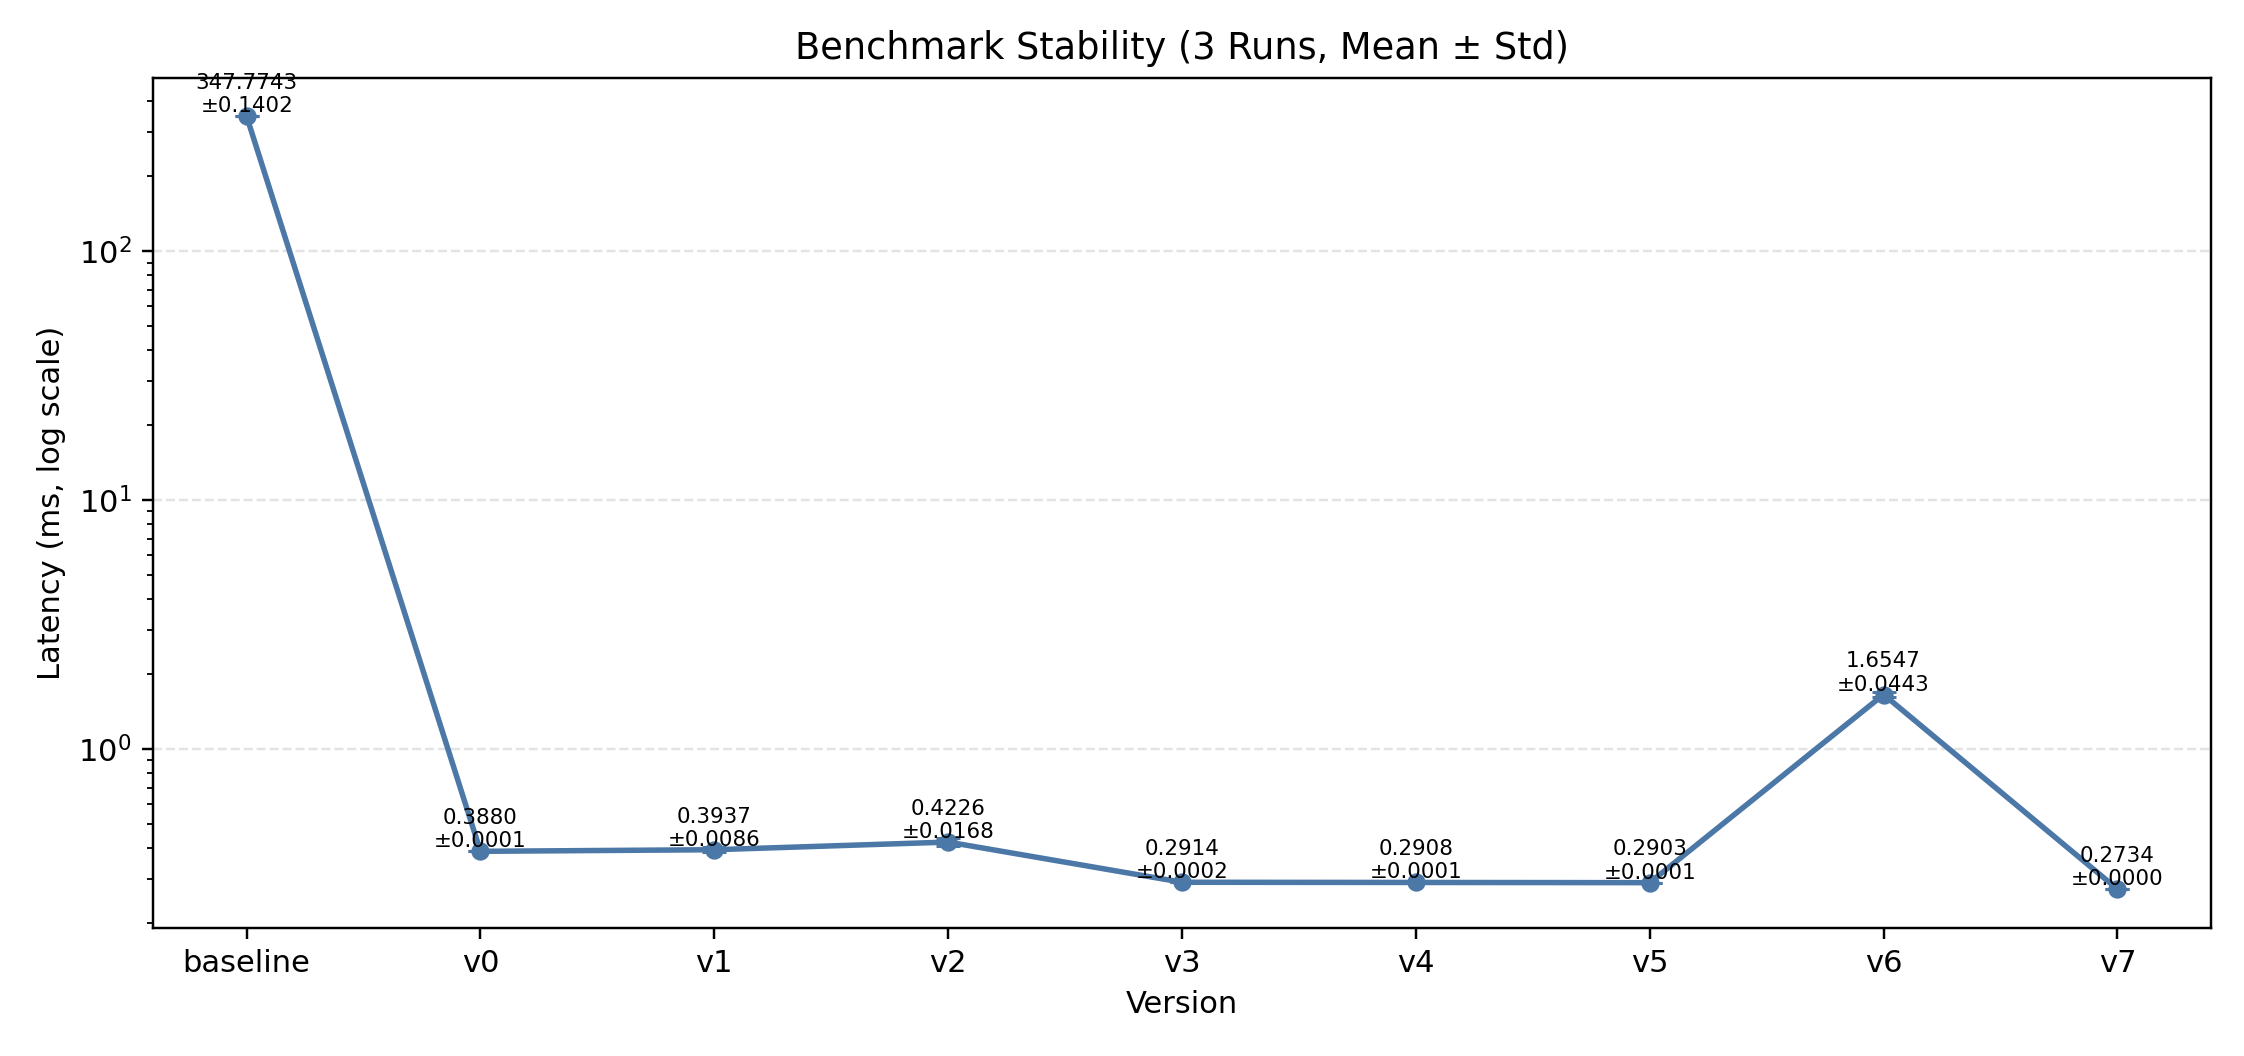
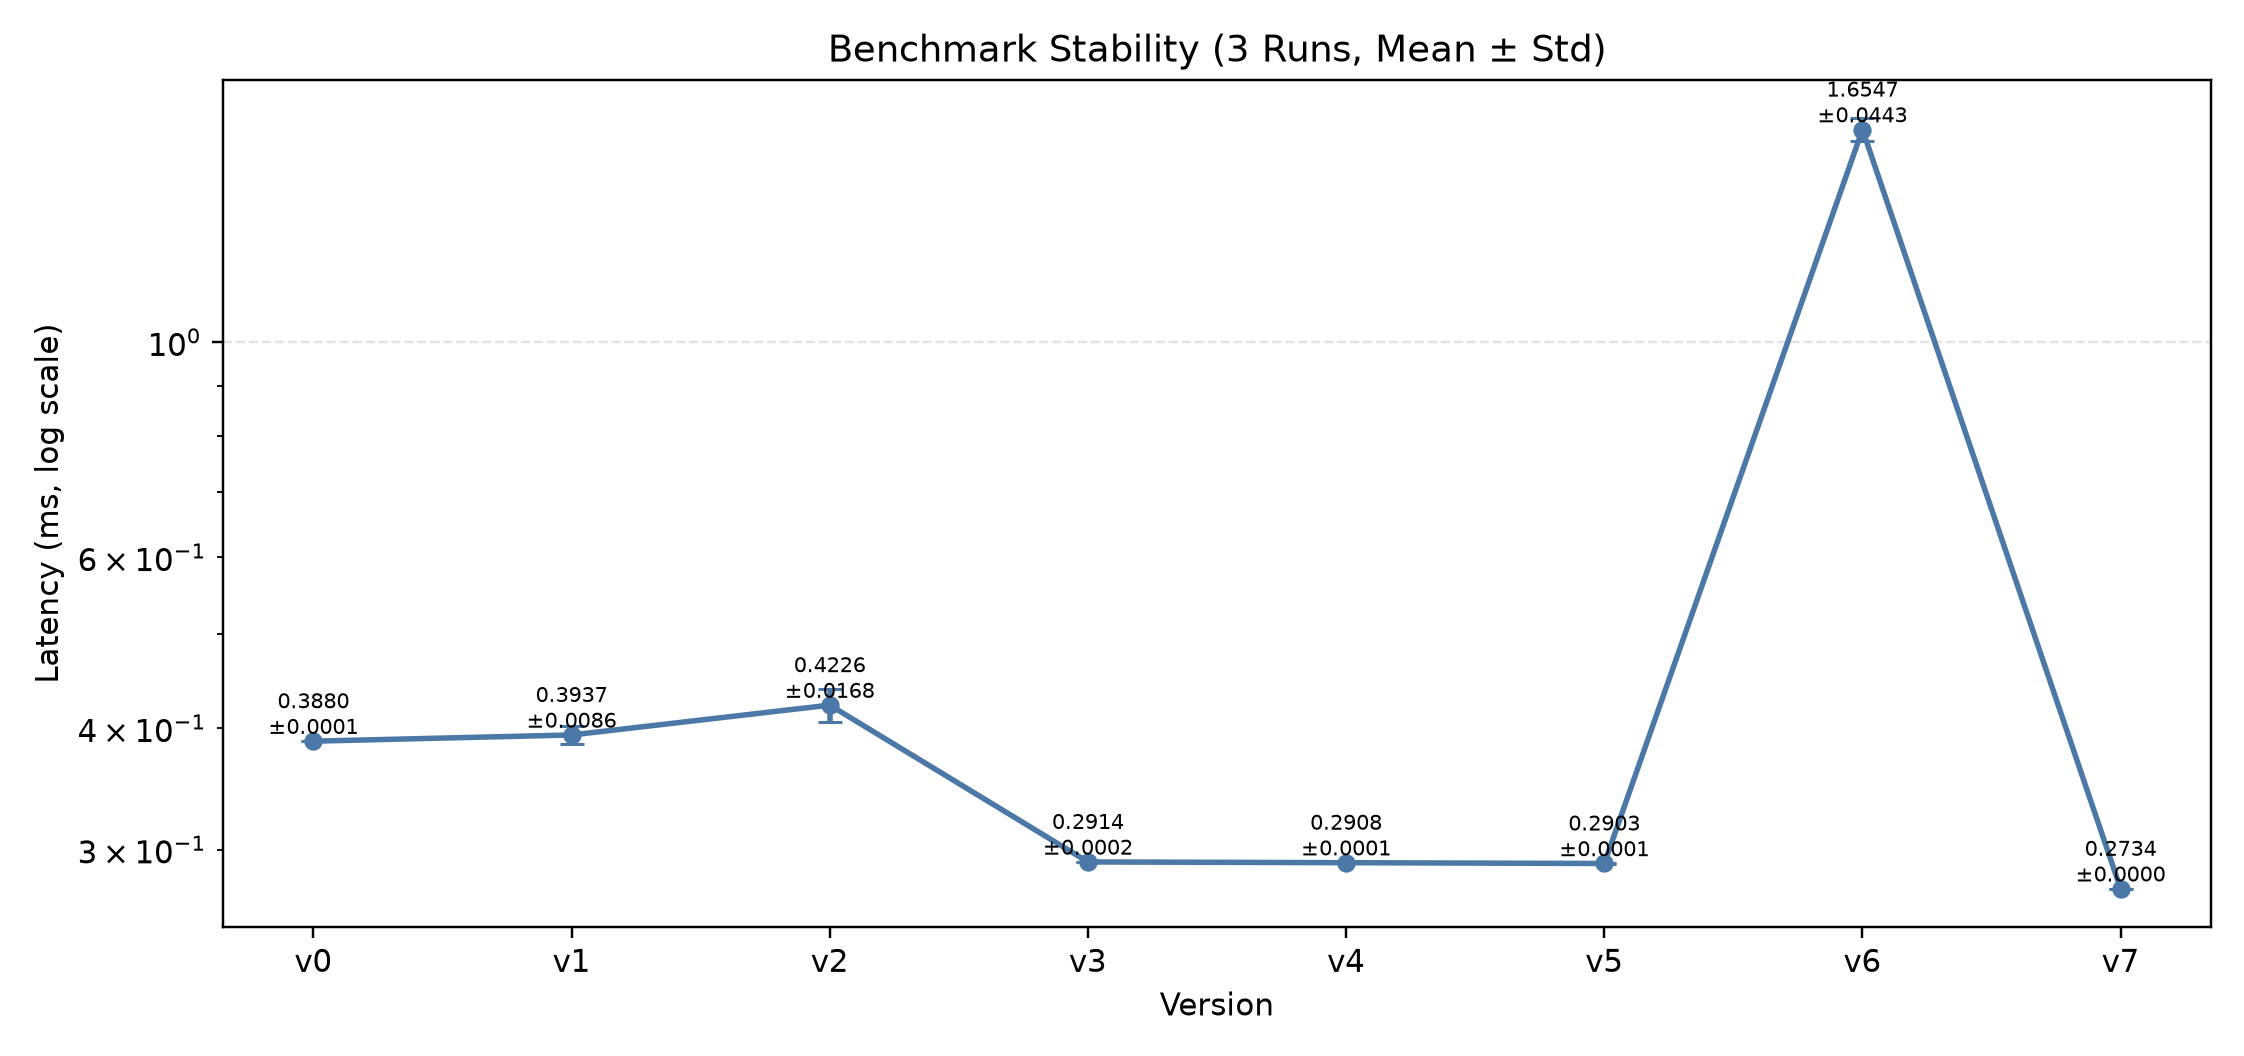
EXP-K01: 4090 重基准, reduce v6/v7 排序反转反超 cuBLAS 25%, roofline 迁移记录(NCU 容器无权限如实标注)

diff --git a/records/EXP-K01_4090_rebench.md b/records/EXP-K01_4090_rebench.md
@@ -1,0 +1,81 @@
+# EXP-K01 · 四 kernel 4090 重基准:roofline 迁移(4070 Laptop → 4090)
+
+## 0. 元信息
+
+| 字段 | 值 |
+|---|---|
+| 日期 | 2026-08-23 |
+| 环境 | RTX 4090(桌面,~1008GB/s GDDR6X)· CUDA 13.2 · driver 610.57.04;原基线 = RTX 4070 Laptop(git HEAD 内 CSV) |
+| 状态 | 完成(NCU 部分受阻,见 §7) |
+| 关联清单项 | 阶段一"4 个 kernel 在 4090 重新 benchmark"+"(NVIDIA线)细节重过"(部分) |
+
+## 1. 目的与假设
+
+简历数字换桌面卡;记录 roofline 位置迁移。可证伪假设:各 kernel 相对
+cuBLAS/baseline 的**版本间排序在 4090 上可能改变**(带宽/算力/L2 比例不同)。
+
+## 2. 环境与配置
+
+`scripts/run_bench_and_plot_all.sh`(softmax/gemv/int8-quantize)+
+cuda-reduce 单独 cmake+`reduce_bench`。各 bench 自带 100 iters + warmup +
+stability CSV(mean±std);尺寸与版本矩阵与原仓完全一致(未改任何源码)。
+旧值来源:`git show HEAD:<project>/project-proof/data/benchmark_results.csv`。
+
+## 3. 步骤
+
+构建 → bench → 四组 plot 重生成;新 CSV 覆盖工作区(旧值以 git 历史为锚,
+见 §7 整改项)。
+
+## 4. 原始数据
+
+各 `<project>/project-proof/data/benchmark_results.csv` + `benchmark_stability.csv`
+(本次提交即 4090 版;上一提交即 Laptop 版——版本对 = git 两个 commit)。
+
+## 5. 结果(末档尺寸,ms;倍率均为同机内比值)
+
+| kernel | 最优版 | 4090 | Laptop | 4090 vs cuBLAS | Laptop vs cuBLAS |
+|---|---|---|---|---|---|
+| reduce | **v7** | 0.0296 | 1.665(彼时回退版) | **快 25%**(0.0371/0.0296) | v4 慢 1.7%(彼时最优) |
+| softmax(aligned 1024²) | v4 | 0.0078 | 0.0164 | **快 26%**(0.0098/0.0078) | 快 26% |
+| softmax(mis 1024×1500) | v4 | 0.0099 | 0.0223 | **快 34%**(0.0133/0.0099) | 快 26% |
+| gemv | v3 | 0.0128 | 0.0325 | **快 84%**(0.0235/0.0128) | 快 19% |
+| int8-quantize | v4 | 0.0059 | — | vs 仓内 baseline 1.8e4×(见 §7 口径) | — |
+
+**Roofline 迁移(本实验最有价值的发现)**:
+- **reduce v6/v7 排序反转**:Laptop 上 v6/v7 是回退版(1.66ms,慢于 v4/v5
+  的 0.29),4090 上反成最优(0.0296)且**反超 cuBLAS 25%**——同一代码,
+  硬件带宽/SM 配比变了,最优实现随之改变。简历的"与 cuBLAS 差 1.7%"
+  在 4090 上应升级为"快 25%"(版本号从 v4 换 v7,须注明)。
+- gemv 领先幅度 19%→84%:一半来自我方提速,一半来自 **cuBLAS gemv 在
+  4090 上相对表现变差**(0.0402→0.0235 仅 1.7× 硬件增益,低于其余对照)
+  ——对照物状态如实标注,不吹成纯自身优势。
+- softmax 结论稳定(26%→26/34%),misaligned 组扩大——4090 带宽更高,
+  cuBLAS 的 L2 策略优势相对缩水,与 Laptop 时代 NCU 归因(它赢在 L2)自洽。
+
+## 6. 分析与结论
+
+排序反转假设成立(reduce)。简历数字迁移方案:reduce 347.6ms→0.291ms
+(Laptop 叙事保留)+ 4090 版"最优实现反超 cuBLAS 25%(0.0296 vs 0.0371ms)";
+softmax 26%(4090 aligned 同值,mis 34%);gemv 84% 须带"cuBLAS gemv 该卡
+表现平平"限定或改引 19%(Laptop)保守值。
+
+## 7. 异常、偏差与开放问题
+
+- **NCU 不可用**:本容器 ERR_NVGPUCTRPERM(性能计数器无权限,与 py-spy
+  ptrace 同类平台限制)→"细节重过(stall/occupancy)"无法在 4090 复采;
+  沿用 `artifacts/ncu_for_mac/` 的 Laptop 时代 ncu-rep 作机理参照,
+  4090 归因以带宽模型推断并注明证据等级。
+- **int8 baseline 口径**:仓内 baseline 为 CPU 级实现(106ms/1024²),
+  1.8e4× 不可对外引用;简历的"比 PyTorch eager 快 6.6×"是另一口径,
+  4090 版 PyTorch-eager 对照在 triton-kernels 仓补测(EXP-T03)。
+- **整改项(违 CORE bench 铁则)**:本仓 bench 直接覆盖 CSV(trunc 旧值),
+  旧值仅靠 git 提交锚定——后续应改 UTC 前缀新文件;本次以"提交对"作
+  版本锚,未改 harness(老项目缺哪补哪,不推倒)。
+- reduce 的 stability 旧 CSV 未含 v6/v7 行(彼时回退未入稳定表),4090 版
+  已覆盖全版本。
+
+## 8. 下游影响
+
+- 简历 CUDA 段数字按 §6 方案迁移(红线:gemv 84% 必须带对照物限定)。
+- reduce 排序反转 = 面试"roofline 迁移"最佳素材(同码不同卡,最优解变)。
+- int8 的 PyTorch-eager 4090 对照 → triton-kernels#EXP-T03 一并出。

diff --git a/LAB_JOURNAL.md b/LAB_JOURNAL.md
@@ -1,0 +1,19 @@
+# LAB_JOURNAL — Kernel_Optimazation
+
+## §1 4090 重基准 + roofline 迁移(2026-08-23,EXP-K01)
+
+- **做了什么**:四 kernel(reduce/softmax/gemv/int8-quantize)在 4090 全量
+  重跑既有 bench(未改源码),与 git HEAD 里的 4070-Laptop CSV 逐版本对照;
+  重生成全部图。
+- **为什么**:阶段一清单"简历数字换桌面卡 + 记录 roofline 位置迁移"。
+- **关键数字**:**reduce v6/v7 排序反转**(Laptop 回退版 → 4090 最优且反超
+  cuBLAS 25%);softmax v4 快 cuBLAS 26%(aligned)/34%(mis);gemv 84%
+  (含 cuBLAS gemv 本卡表现平平的对照物因素,如实标注);int8 仓内 baseline
+  系 CPU 口径,PyTorch-eager 4090 对照移 triton-kernels#EXP-T03。
+- **受阻与整改**:NCU 无计数器权限(容器 ERR_NVGPUCTRPERM,细节重过降级
+  为 Laptop ncu-rep 参照);本仓 bench 覆盖写 CSV 违 CORE bench 铁则,
+  本次以提交对作版本锚,harness 改造列为后续整改。
+- **产物**:records/EXP-K01、四项目新 CSV/stability/图(本提交),
+  旧值锚 = 上一提交。
+- **下一步**:triton-kernels 仓(FA2/双缓冲 GEMM/三件套移植)开发中,
+  Triton vs CUDA 对比将回引本仓同尺寸数字。

diff --git a/ENV.md b/ENV.md
@@ -26,6 +26,9 @@ pip install matplotlib numpy
 
 ## 编译（每个 kernel 独立 CMake）
 
+> 若 CMake 报 "No CMAKE_CUDA_COMPILER could be found"，先把 nvcc 加入 PATH：
+> `export PATH=/usr/local/cuda/bin:$PATH`（建议写入 `~/.bashrc`）
+
 ```bash
 # softmax
 cd softmax && mkdir build && cd build
